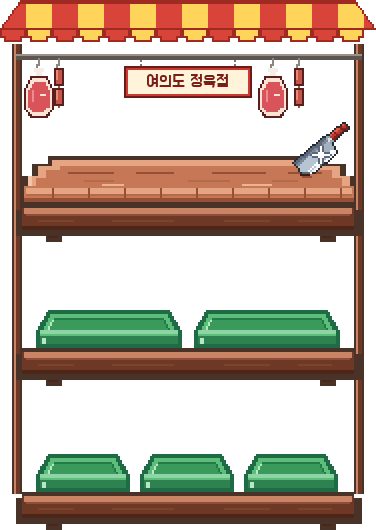
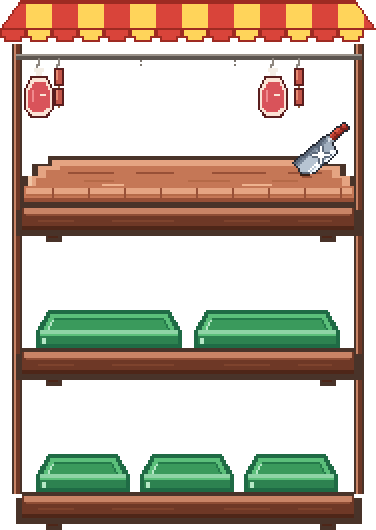
yjp-v60: 랜딩, 물마루·갈무리, 하단 메뉴와 냉장고 글씨를 맞춘다
세션당 한 번 보이는 랜딩에서 간판이 2배에서 진열대 자리로 줄어들고, 구역 라벨과 칩은 갈무리 12px, 간판은 물마루 16px다. 하단 메뉴와 냉장고 글씨, 시트 이름 말줄임도 함께 고친다.

Changed region(s): [[0.3218, 0.1208, 0.6729, 0.2113]]

diff --git a/nbzzEbYc9KFBr3/app/style.css b/nbzzEbYc9KFBr3/app/style.css
@@ -1,5 +1,7 @@
 @font-face{font-family:P;src:url(fonts/Pretendard-Regular.woff2) format('woff2');font-weight:400 500;font-display:swap}
 @font-face{font-family:P;src:url(fonts/Pretendard-Bold.woff2) format('woff2');font-weight:600 800;font-display:swap}
+@font-face{font-family:Galmuri;src:url(fonts/Galmuri11-Bold.woff2) format('woff2');font-weight:700;font-display:swap}
+@font-face{font-family:Mulmaru;src:url(fonts/Mulmaru.woff2) format('woff2');font-weight:500;font-display:swap}
 :root{--red:#D93A44;--red-t:#C8333D;--ink:#1A1A1A;--sub:#525252;--ph:#6B6B6B;--blank:#595959;--line:#E5E5E5;--bg2:#F4F4F4;--org:#12843A;--r:22px;--sat:env(safe-area-inset-top);--sab:env(safe-area-inset-bottom)}
 *{box-sizing:border-box;-webkit-tap-highlight-color:transparent}
 html{font:-apple-system-body;font-size:17px}@supports (font:-apple-system-body){html{font:-apple-system-body}}
@@ -55,7 +57,7 @@ h2 small{font-weight:500;color:var(--sub);font-size:0.8824rem;margin-left:4px}
 .org{display:inline-block;background:var(--org);color:#fff;font-size:0.5882rem;font-weight:700;border-radius:3px;padding:1px 3px}
 .empty{text-align:center;color:var(--sub);padding:34px 10px;line-height:1.6}
 nav.tab{position:fixed;left:0;right:0;bottom:0;background:#fff;border-top:1px solid var(--line);display:flex;padding-bottom:var(--sab);z-index:5;max-width:480px;margin:0 auto}
-nav.tab button{flex:1;height:58px;display:flex;flex-direction:column;align-items:center;justify-content:center;gap:3px;font-size:0.6471rem;color:#6B6B6B;position:relative}
+nav.tab button{flex:1;height:58px;display:flex;flex-direction:column;align-items:center;justify-content:center;gap:2px;padding:8px 0;font-size:12px;color:#525252;position:relative}
 nav.tab button b{font-size:1.1765rem;font-weight:400;filter:grayscale(1);opacity:.6}
 nav.tab button.on{color:var(--ink);font-weight:700}nav.tab button.on:before{content:"";position:absolute;top:0;left:28%;right:28%;height:3px;border-radius:0 0 3px 3px;background:var(--ink)}
 nav.tab button.on b{opacity:1;filter:none}
@@ -216,8 +218,8 @@ button[disabled]{cursor:default;pointer-events:none}
 #vlayer{position:fixed;inset:0;z-index:0;background:#0b0b0b;overflow-y:auto;-webkit-overflow-scrolling:touch;visibility:hidden}
 #vlayer.on{visibility:visible}
 #vpeek{position:fixed;z-index:5;display:none;pointer-events:none;background:radial-gradient(circle at 85% 80%,#2a2723 0,#151311 50%,#0b0b0b 85%)}
-#vpeek svg{position:absolute;right:7px;width:22px;height:22px}
-#vpeek .lb{position:absolute;right:6px;font-size:0.6471rem;font-weight:700;color:#E9DFC9;white-space:nowrap}
+#vpeek svg{position:absolute;right:2px;width:20px;height:20px}
+#vpeek .lb{position:absolute;right:6px;font-size:12px;font-weight:700;color:#E9DFC9;white-space:nowrap}
 #vfx{position:fixed;left:0;top:0;width:100vw;height:100vh;z-index:6;pointer-events:none;overflow:visible;display:none}
 #vflap{filter:drop-shadow(-3px -4px 7px rgba(0,0,0,.28))}
 #vhit{position:fixed;z-index:7;display:none;border:0;padding:0;background:transparent;-webkit-tap-highlight-color:transparent;min-height:44px}
@@ -306,8 +308,8 @@ html.vlock,html.vlock body{overflow:hidden}
 
 /* v25 얇은 선 아이콘 (A1: 탭 30px, 돋보기 25px, 종 30px) */
 .sic{display:inline-flex;align-items:center;width:25px;height:25px;color:#8A8A8A}.sic svg{width:25px;height:25px}
-nav.tab button[data-v] b{filter:none!important;opacity:1!important;width:30px;height:30px;display:block;color:#9A9A9A}
-nav.tab button[data-v] b svg{width:30px;height:30px;display:block}
+nav.tab button[data-v] b{filter:none!important;opacity:1!important;width:28px;height:28px;display:block;color:#8A8A8A}
+nav.tab button[data-v] b svg{width:28px;height:28px;display:block}
 nav.tab button[data-v].on b{color:var(--ink)}
 nav.tab.xslide button.on:before{visibility:hidden}
 .tabglide{position:absolute;top:0;height:3px;border-radius:0 0 3px 3px;background:var(--ink);pointer-events:none;transition:transform .3s ease-out}
@@ -443,3 +445,34 @@ img.fbn-p1,img.fbn-p2,img.fbn-p9{image-rendering:pixelated;image-rendering:crisp
 #flist .frchips{grid-area:pill;justify-self:start;align-self:end;display:flex;flex-wrap:wrap;gap:4px}
 .sflags{display:flex;flex-wrap:wrap;gap:4px;margin-top:4px}
 #flist .frrow .tav>img{filter:drop-shadow(1px 0 0 #fff) drop-shadow(-1px 0 0 #fff) drop-shadow(0 1px 0 #fff) drop-shadow(0 -1px 0 #fff)}
+/* v60: 물마루 간판, 갈무리 라벨·칩, 랜딩, 하단 메뉴, 냉장고 글씨 */
+.pxfont,.slabl,.schip,.land-copy{font-family:Galmuri,ui-monospace,monospace;font-weight:700;-webkit-font-smoothing:none;text-rendering:optimizeSpeed}
+.signboard{position:absolute;left:122px;top:63px;width:132px;height:38px;z-index:4;pointer-events:none}
+html.landing .signboard{visibility:hidden}
+.slabl{position:absolute;z-index:3;height:22px;display:flex;align-items:center;justify-content:center;background:#fff;color:#1A1A1A;border-radius:2px;box-shadow:0 1px 0 rgba(58,42,32,.25);font-size:12px;line-height:1;white-space:nowrap}
+.schip{position:absolute;z-index:3;height:24px;display:flex;align-items:center;justify-content:center;box-sizing:border-box;background:#FFE3DE;color:#8E1F17;box-shadow:inset 0 0 0 1px #3A1F12;border-radius:2px;font-size:12px;line-height:1}
+html.landing,html.landing body{overflow:hidden}
+.land{position:fixed;inset:0;z-index:80;background:transparent}
+.land:focus{outline:none}
+.land:focus-visible{outline:2px solid #1A1A1A;outline-offset:-6px}
+.land-bg{position:absolute;inset:0;background:#fff}
+.land-awn,.land-sign,.land-str{position:fixed;z-index:2}
+.land-str{z-index:1;background:#9A928A}
+.land-copy{position:fixed;left:16px;right:16px;margin:0;text-align:center;color:#525252;font-size:14px;line-height:1.2;z-index:3}
+.land.out{transition:opacity .3s linear;opacity:0}
+nav.tab button.vt:focus-visible{outline:2px solid #C9A96E;outline-offset:-4px;border-radius:8px}
+.fstatus{display:flex;align-items:flex-start;margin:-8px 0 12px;min-width:0}
+.fstatus>.fst{flex:1 1 auto;min-width:0;margin:0}
+.fstatus>.fst.fade{-webkit-mask-image:linear-gradient(90deg,#000 calc(100% - 16px),transparent);mask-image:linear-gradient(90deg,#000 calc(100% - 16px),transparent)}
+.fstatus>.sortlbl{position:static;top:auto;flex:none;align-self:flex-start;height:44px;margin:0;padding:0 0 4px 8px;font-size:12px;font-weight:500;line-height:1;color:var(--sub);white-space:nowrap;display:flex;align-items:center}
+.fstatus>.sortlbl[hidden]{display:none}
+.fst>.chip.sm{color:#1A1A1A;font-size:13px;font-weight:600}
+.fst>.chip.sm:before{background:#fff;box-shadow:inset 0 0 0 1.5px #8A8A8A}
+.fst>.chip.sm.on{color:#fff}
+.fst>.chip.sm.on:before{background:#1A1A1A;box-shadow:none}
+#flist .frrow .meta{font-size:12.5px;line-height:1.35}
+#flist .frrow .nm{display:flex;flex-wrap:nowrap;align-items:center;min-width:0;white-space:nowrap}
+#flist .frrow .nm .nmt{display:block;flex:1 1 auto;min-width:0;overflow:hidden;text-overflow:ellipsis;white-space:nowrap;word-break:normal;overflow-wrap:normal;-webkit-line-clamp:unset;-webkit-box-orient:unset}
+.sline .who .grow{align-items:stretch;min-width:0;max-width:100%;overflow:hidden}
+.sline .who .nm{display:flex;align-items:center;gap:4px;min-width:0;max-width:100%;overflow:hidden}
+.sline .who .nm .nmt{display:block;flex:1 1 auto;min-width:0;overflow:hidden;text-overflow:ellipsis;white-space:nowrap}

diff --git a/nbzzEbYc9KFBr3/app/sw.js b/nbzzEbYc9KFBr3/app/sw.js
@@ -1,6 +1,6 @@
-const C='yjp-v59';
+const C='yjp-v60';
 const ART=['stall','pack','lab-trim','lab-nw','lab-hold','lab-fresh','lab-aging','lab-spoil'].concat([...Array(24).keys()].map(i=>'chip-'+(i+1)));
-const F=['./','index.html','style.css','app.js','curl.js','icons.js','manifest.webmanifest','icon-180.png','icon-192.png','icon-512.png','fonts/Pretendard-Regular.woff2','fonts/Pretendard-Bold.woff2','emoji/hold.svg','art/fridge.png','art/arc.png','art/arc@2x.png','art/spark.png','art/spark@2x.png','art/frost.png','art/frost@2x.png'].concat(ART.flatMap(n=>[n,n+'@2x',n+'@3x'].map(x=>'art/'+x+'.png'))).concat([...Array(12).keys()].map(i=>'emoji/p'+i+'.svg')).concat([...Array(12).keys()].map(i=>'emoji/o'+i+'.svg'));
+const F=['./','index.html','style.css','app.js','curl.js','icons.js','manifest.webmanifest','icon-180.png','icon-192.png','icon-512.png','fonts/Pretendard-Regular.woff2','fonts/Pretendard-Bold.woff2','fonts/Galmuri11-Bold.woff2','fonts/Mulmaru.woff2','emoji/hold.svg','art/fridge.png','art/arc.png','art/arc@2x.png','art/spark.png','art/spark@2x.png','art/frost.png','art/frost@2x.png','art/sign.png','art/sign@2x.png','art/sign@3x.png','art/sign-land.png','art/awning.png','art/awning@2x.png','art/awning@3x.png'].concat(ART.flatMap(n=>[n,n+'@2x',n+'@3x'].map(x=>'art/'+x+'.png'))).concat([...Array(12).keys()].map(i=>'emoji/p'+i+'.svg')).concat([...Array(12).keys()].map(i=>'emoji/o'+i+'.svg'));
 self.addEventListener('install',e=>{e.waitUntil(caches.open(C).then(c=>c.addAll(F)).then(()=>self.skipWaiting()))});
 self.addEventListener('activate',e=>{e.waitUntil(caches.keys().then(k=>Promise.all(k.filter(x=>x!==C).map(x=>caches.delete(x)))).then(()=>self.clients.claim()))});
 self.addEventListener('fetch',e=>{if(e.request.method!=='GET')return;e.respondWith(caches.match(e.request,{ignoreSearch:true}).then(r=>r||fetch(e.request).then(res=>{const cp=res.clone();caches.open(C).then(c=>c.put(e.request,cp));return res;}).catch(()=>caches.match('index.html'))))});

diff --git a/nbzzEbYc9KFBr3/app/curl.js b/nbzzEbYc9KFBr3/app/curl.js
@@ -32,7 +32,7 @@ function curlRest(){const g=geo();if(open||anim)return;
  fx.setAttribute('width',g.W);fx.setAttribute('height',g.H);
  const {rem}=draw(0,g);g.nv.style.clipPath='';
  pk.style.left=(g.R-A0)+'px';pk.style.width=A0+'px';pk.style.height=g.B+'px';pk.style.bottom='0px';pk.style.top='auto';const pr={left:g.R-A0,top:g.H-g.B};pk.style.clipPath=poly(rem,pr.left,pr.top);
- pk.querySelector('svg').style.bottom=(g.sab+22)+'px';pk.querySelector('.lb').style.bottom=(g.sab+7)+'px';
+ pk.querySelector('svg').style.bottom=(g.sab+21)+'px';pk.querySelector('.lb').style.bottom=(g.sab+6)+'px';
  const cell=g.nv.querySelector('.vt').getBoundingClientRect();hit.style.left=cell.left+'px';hit.style.width=cell.width+'px';hit.style.top=cell.top+'px';hit.style.height='58px'}
 function frame(tt,g){t=tt;const app=$('#app'),ar=app.getBoundingClientRect();
  const {kept}=draw(tt,g);app.style.clipPath=poly(kept,ar.left,ar.top);if(g.nv){const nr=g.nv.getBoundingClientRect();g.nv.style.clipPath=poly(kept,nr.left,nr.top)}

diff --git a/nbzzEbYc9KFBr3/app/index.html b/nbzzEbYc9KFBr3/app/index.html
@@ -41,7 +41,7 @@
 <linearGradient id="vgF" gradientUnits="userSpaceOnUse"><stop offset="0" stop-color="#b9b9b9"/><stop offset=".07" stop-color="#e6e6e6"/><stop offset=".22" stop-color="#fdfdfd"/><stop offset=".55" stop-color="#ffffff"/><stop offset=".85" stop-color="#f1f1f1"/><stop offset="1" stop-color="#dcdcdc"/></linearGradient>
 <linearGradient id="vgP" gradientUnits="userSpaceOnUse"><stop offset="0" stop-color="#000" stop-opacity=".14"/><stop offset="1" stop-color="#000" stop-opacity="0"/></linearGradient></defs>
 <path id="vshade" fill="url(#vgP)"/><path id="vflap" fill="url(#vgF)"/><path id="vrim" fill="none" stroke="#fff" stroke-opacity=".9" stroke-width="1"/></svg>
-<button id="vhit" data-a="vopen" aria-label="내 판정서"></button>
+<button id="vhit" data-a="vopen" tabindex="-1" aria-hidden="true"></button>
 <div id="sheet-root"></div>
 <div id="toast"></div>
 <script src="app.js"></script>
